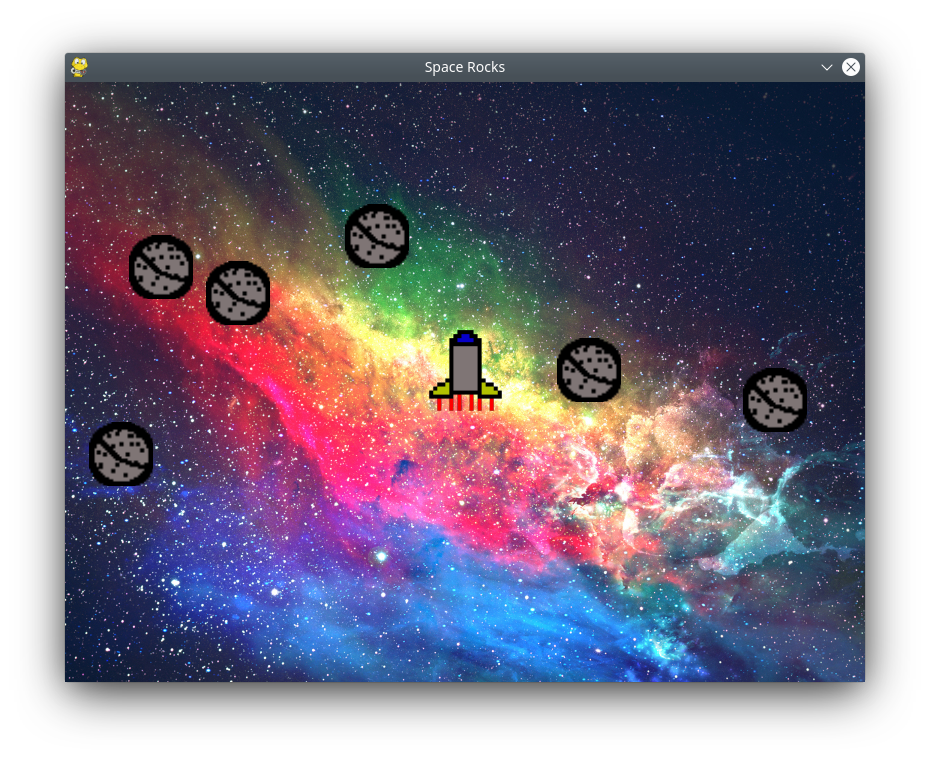
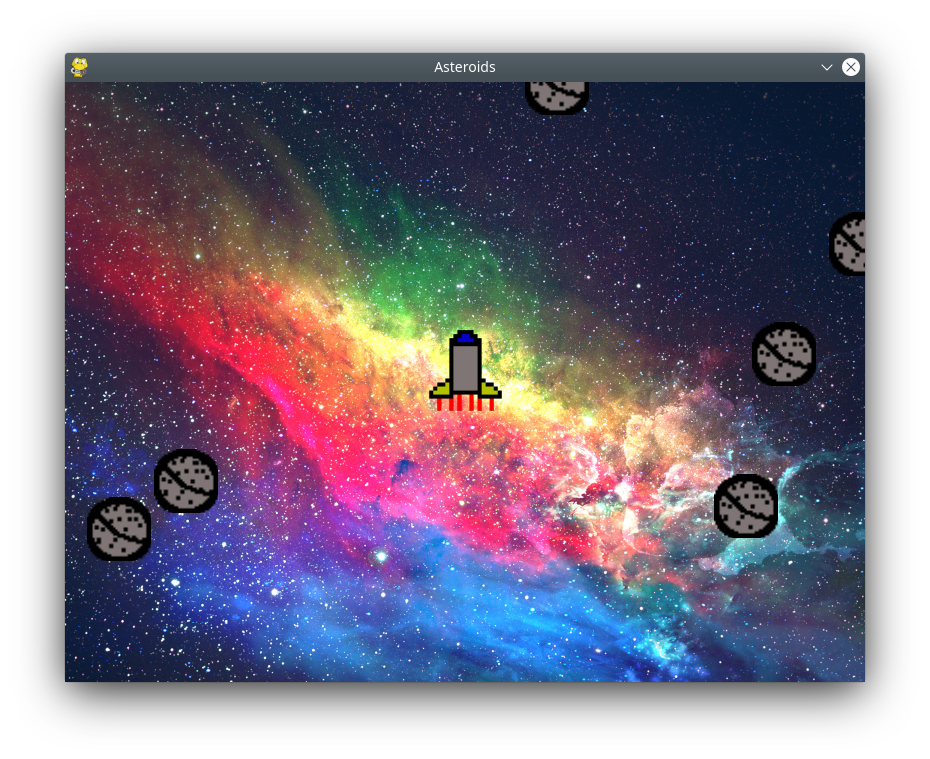
Update images and naming

diff --git a/game.py b/game.py
@@ -3,7 +3,7 @@ from asteroid import Asteroid
 from spaceship import Spaceship
 from utils import get_random_position ,load_sprite, print_text
 
-class SpaceRocks:
+class Asteroids:
     MIN_ASTEROID_DISTANCE = 250
     MIN_SPACE_BETWEEN = 50
 
@@ -43,7 +43,7 @@ class SpaceRocks:
 
     def _init_pygame(self):
         pygame.init()
-        pygame.display.set_caption("Space Rocks")
+        pygame.display.set_caption("Asteroids")
 
     def _handle_input(self):
         for event in pygame.event.get():

diff --git a/main.py b/main.py
@@ -1,5 +1,5 @@
-from game import SpaceRocks
+from game import Asteroids
 
 if __name__ == "__main__":
-    space_rocks = SpaceRocks()
-    space_rocks.main_loop()
+    asteroids = Asteroids()
+    asteroids.main_loop()
